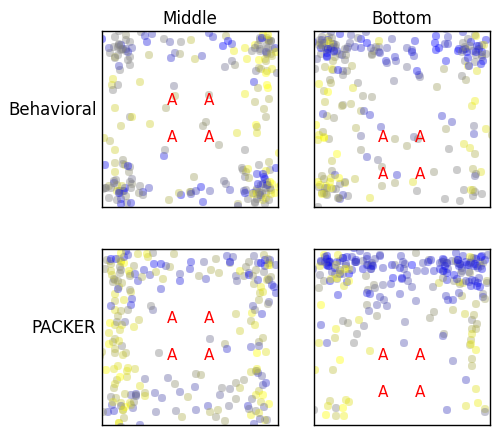
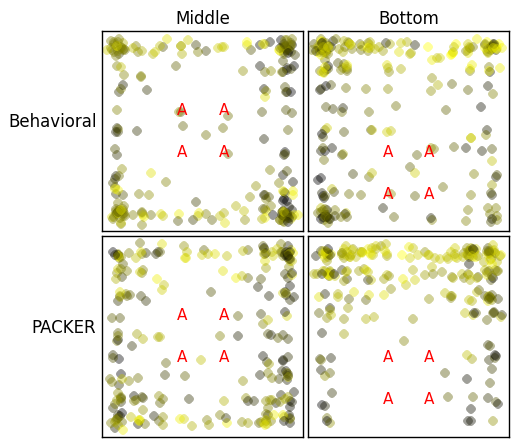
changes to range-by-location fig

diff --git a/Experiments/middle-bottom/modeling/plot.range.x.location.py b/Experiments/middle-bottom/modeling/plot.range.x.location.py
@@ -9,10 +9,6 @@ sys.path.insert(0, "../../../Modules/") # generate-categories/Modules
 from models import Packer
 import utils
 
-
-np.set_printoptions(precision = 2)
-pd.set_option('precision', 2)
-
 # import data
 con = sqlite3.connect('../data/experiment.db')
 info = pd.read_sql_query("SELECT * from participants", con)
@@ -22,6 +18,12 @@ alphas = pd.read_sql_query("SELECT * from alphas", con)
 stimuli = pd.read_sql_query("SELECT * from stimuli", con).as_matrix()
 con.close()
 
+# get observed data
+observed = pd.DataFrame(generation)
+observed['F1'] = stimuli[observed.stimulus,0]
+observed['F2'] = stimuli[observed.stimulus,1]
+observed = pd.merge(observed, stats[['participant', 'drange']],    on='participant')
+observed.drange = (observed.drange + 2.0) / 4.0
 
 # params for PACKER
 params = dict(
@@ -31,59 +33,72 @@ params = dict(
         determinism = 1.99990124401,
         )
 
-info.set_index('participant',inplace=True)
-conditions = list(pd.unique(info.condition))
+simulated = pd.DataFrame(dict(
+	participant = observed['participant'],
+	stimulus = None,
+	drange = None),
+	index = observed.index
+)
 
-
-
-def plotbs(h, Bs, color):
-	pts = utils.jitterize(Bs,sd = 0.1)
-	h.plot(pts[:,0], pts[:,1], 'o', 
-		color = color, 
-		alpha = 0.4, 
-		markeredgecolor = 'none')
-fontsettings = dict(fontsize = 12.0)
-
-f, ax = plt.subplots(2,2,figsize = (5,5))
 for i, row in stats.groupby('participant'):
-	pcond = info.loc[i, 'condition']
+	pcond = info.loc[info.participant == i, 'condition'].iloc[0]
+	As = stimuli[alphas[pcond],:]
 
+	# get weights
 	rs = np.array(row[['xrange','yrange']])[0]
 	rs = 1.0 / (rs + 1.0/9.0)
+	params['wts'] = rs / float(np.sum(rs))
 
-	d = (float(row.drange) + 2.0) / 4.0
-	
-	# get wts and beta color
-
-	wts = rs / float(np.sum(rs))
-
-	# wts = np.array([0.5, 0.5])
-	color = [1-d, 1-d, d]
-
-	colnum = conditions.index(pcond)
-	h = ax[0][colnum]
-
-	# plot behavioral data
-	Bs = generation.loc[generation.participant == i, 'stimulus']
-	Bs = stimuli[Bs,:]
-	h = ax[0][conditions.index(pcond)]
-	plotbs(h, Bs, color)
-
-	h = ax[1][colnum]
-	params['wts'] = wts
-	model = Packer([stimuli[alphas[pcond],:]], params)
+	model = Packer([As], params)
 	nums = model.simulate_generation(stimuli, 1, nexemplars = 4)
-	simulated_Bs = stimuli[nums,:]
-	rs = np.ptp(simulated_Bs,axis=0)
-	d = (float(rs[0] - rs[1]) + 2.0) / 4.0
-	color = [1-d, 1-d, d]
-	plotbs(h, simulated_Bs, color)
+	ranges = np.ptp(stimuli[nums,:], axis = 0)
+	drange = ((ranges[0] - ranges[1]) + 2.0) / 4.0
 
-# add alphas
+	idx = simulated.participant == i
+	simulated.loc[idx, 'stimulus'] = nums
+	simulated.loc[idx, 'drange'] = drange
+
+simulated['F1'] = stimuli[simulated.stimulus,0]
+simulated['F2'] = stimuli[simulated.stimulus,1]
+
+def d2color(vec):
+	d = np.array(vec)
+	static = np.zeros(len(d))
+	return np.array([d, d, static]).T
+
+def plotbs(h, Bs, color):
+	pts = utils.jitterize(Bs, sd = 0.05)
+	for i, row in enumerate(pts):
+		h.plot(row[0], row[1], 'o', 
+			color = color[i,:], 
+			alpha = 0.4, 
+			markersize = 7,
+			markeredgecolor = 'none')
+
+# plot betas
+f, ax = plt.subplots(2,2,figsize = (5,5))
+for colnum, c in enumerate(pd.unique(info.condition)):
+
+	# get rows
+	pids = info.loc[info.condition == c, 'participant']
+	obs = observed.loc[observed.participant.isin(pids)]
+	sim = simulated.loc[simulated.participant.isin(pids)]
+
+	dfs = [observed, simulated]
+	for j in range(2):
+		df = dfs[j].loc[dfs[j].participant.isin(pids)]
+		Bs = df[['F1','F2']].as_matrix()
+		colors = d2color(df.drange)
+		h = ax[j][colnum]
+		plotbs(h, Bs, colors)
+
+
+
+# plot alphas
+fontsettings = dict(fontsize = 12.0)
 for i in range(2):
-	for j in conditions:
-		colnum = conditions.index(j)
-		h = ax[i][conditions.index(j)]
+	for colnum, j in enumerate(pd.unique(info.condition)):
+		h = ax[i][colnum]
 		utils.plotclasses(h, stimuli, alphas[j], [])
 
 		if colnum == 0:
@@ -95,7 +110,7 @@ for i in range(2):
 		if i==0:
 			h.set_title(j, **fontsettings)
 
-
+plt.tight_layout(pad=0.0, w_pad=0.3, h_pad= -4.0)
 f.savefig('range.x.location.png', bbox_inches='tight', transparent=False)
 
 
